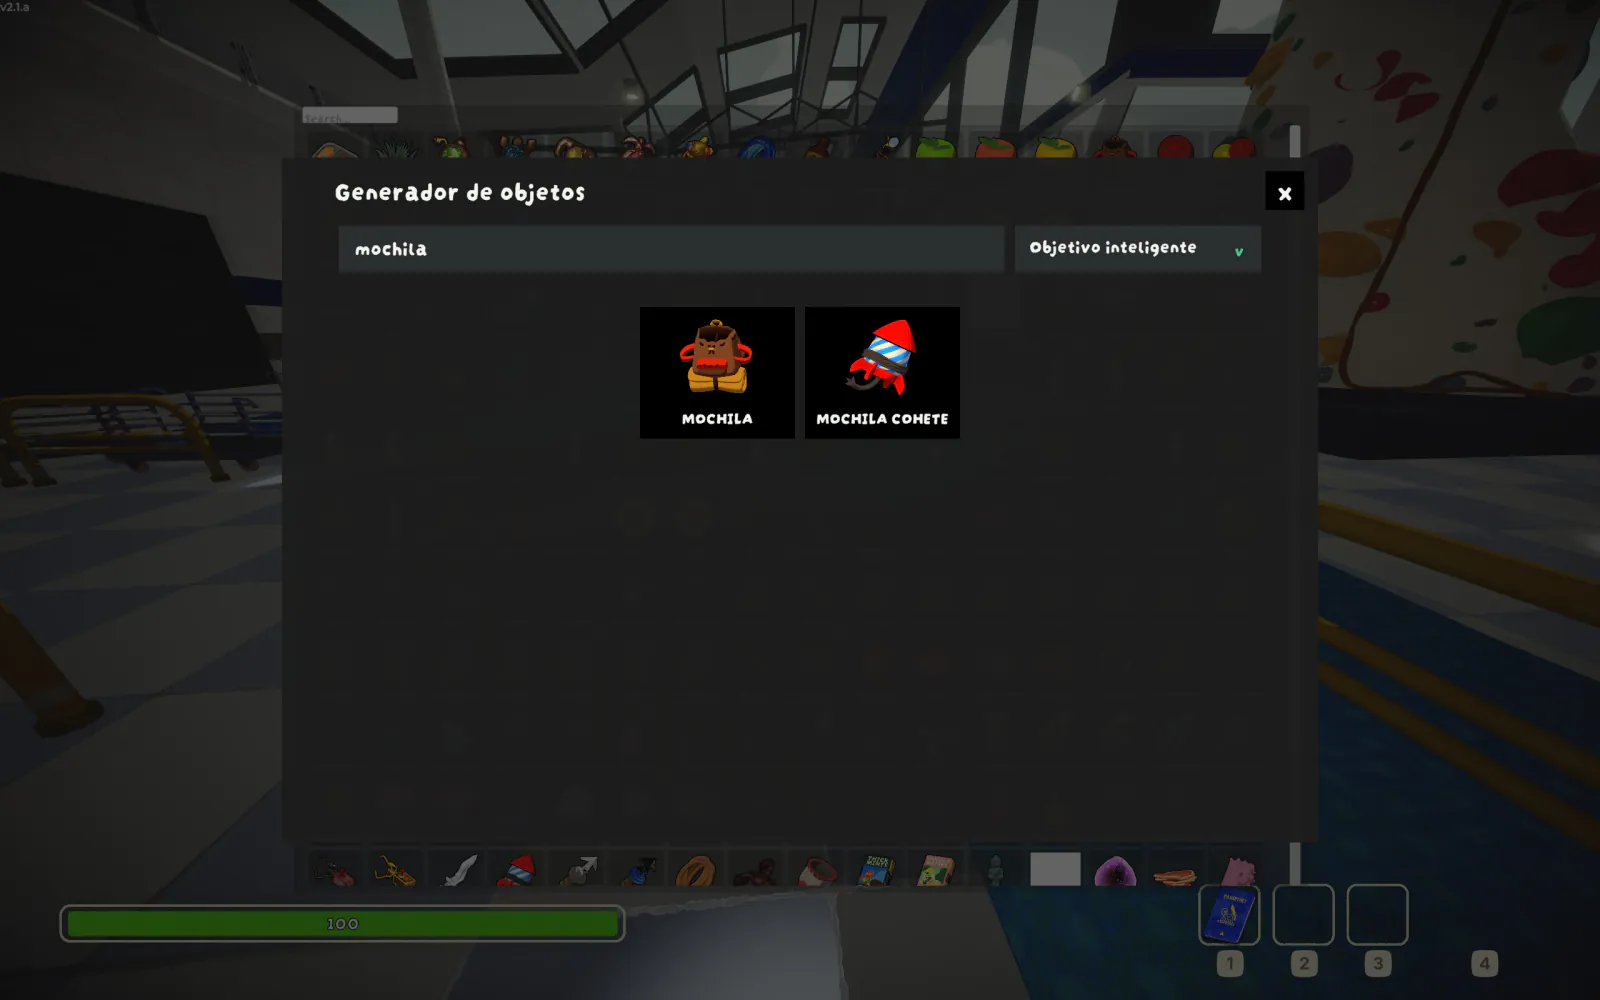
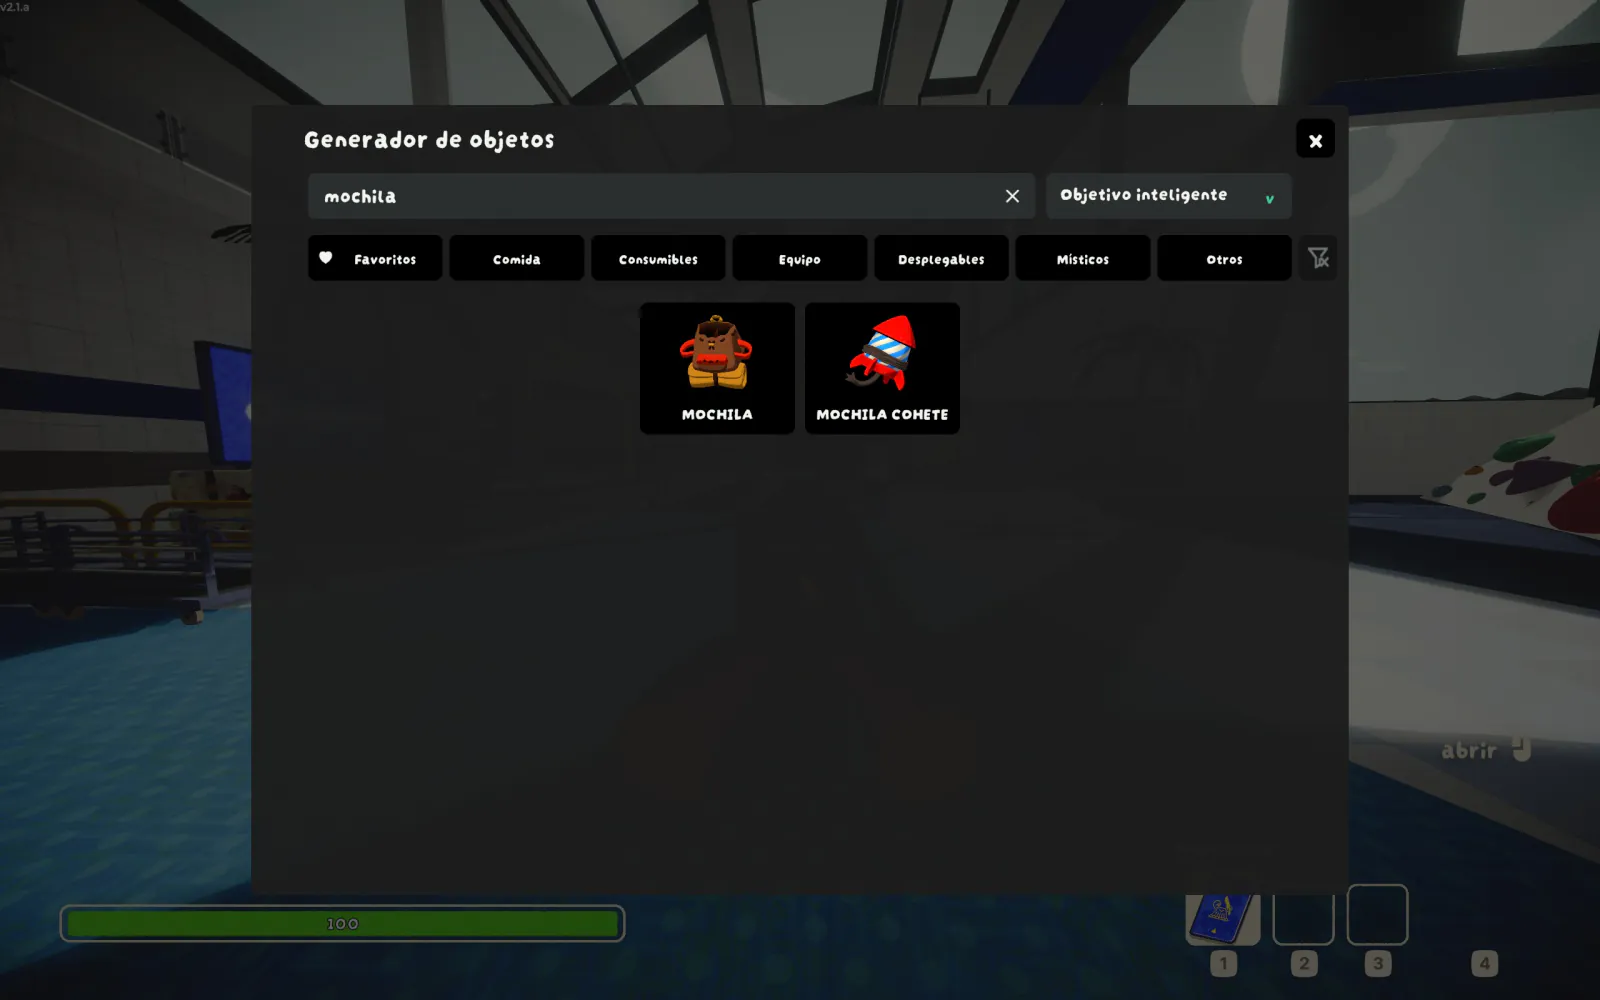
docs: refresh README screenshots

Changed region(s): [[0.125, 0.0, 1.0, 0.837], [0.0, 0.186, 0.1875, 0.961], [0.25, 0.837, 0.8125, 1.0]]

diff --git a/README.md b/README.md
@@ -2,6 +2,10 @@
 
 A client-side item spawner for PEAK built for players across **every supported game language**, with **localized smart search**, **spectator-aware targeting**, and support for spawning items for **any connected Scout**.
 
+| Favorites | Combined tag filtering |
+| :---: | :---: |
+| ![Favorites filter showing favorited item tiles](https://raw.githubusercontent.com/llleixx/ItemSpawnerEnhanced/main/docs/media/favorites.webp) | ![Consumables and Mystical tags selected together](https://raw.githubusercontent.com/llleixx/ItemSpawnerEnhanced/main/docs/media/tag-filtering.webp) |
+
 | English (`pack`) | 简体中文拼音首字母 (`bb`) |
 | :---: | :---: |
 | ![English pack search](https://raw.githubusercontent.com/llleixx/ItemSpawnerEnhanced/main/docs/media/search-en-pack.webp) | ![Simplified Chinese pinyin initials search](https://raw.githubusercontent.com/llleixx/ItemSpawnerEnhanced/main/docs/media/search-zh-hans-pinyin-initials.webp) |
